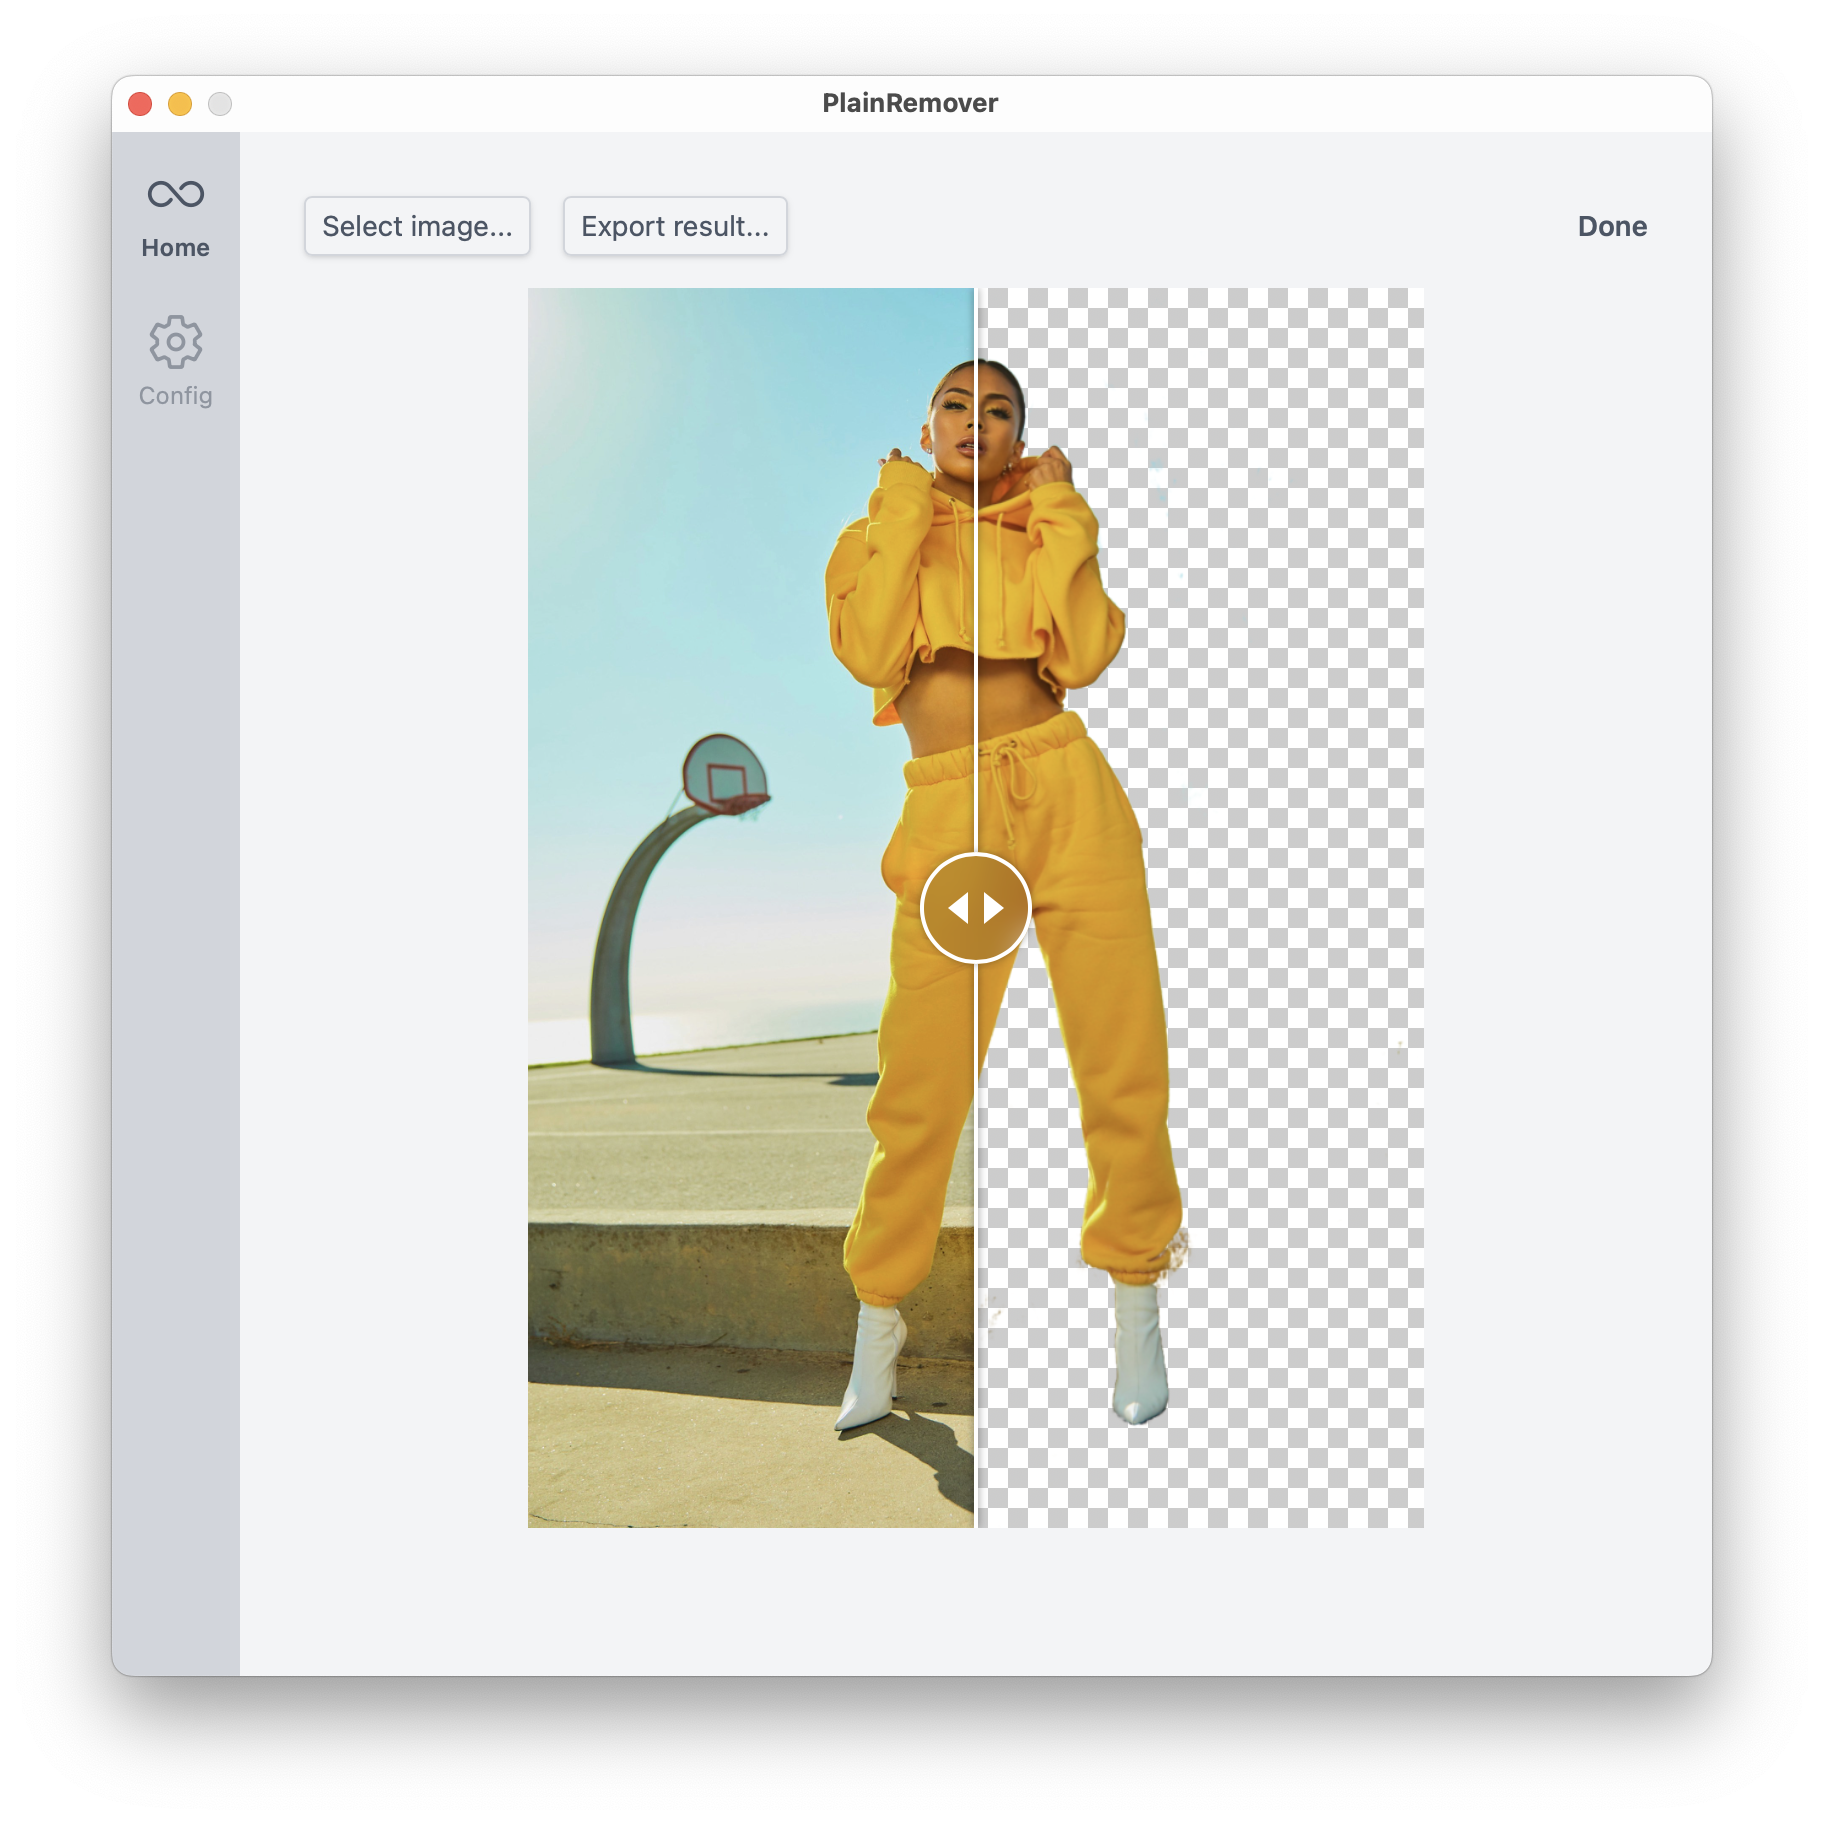
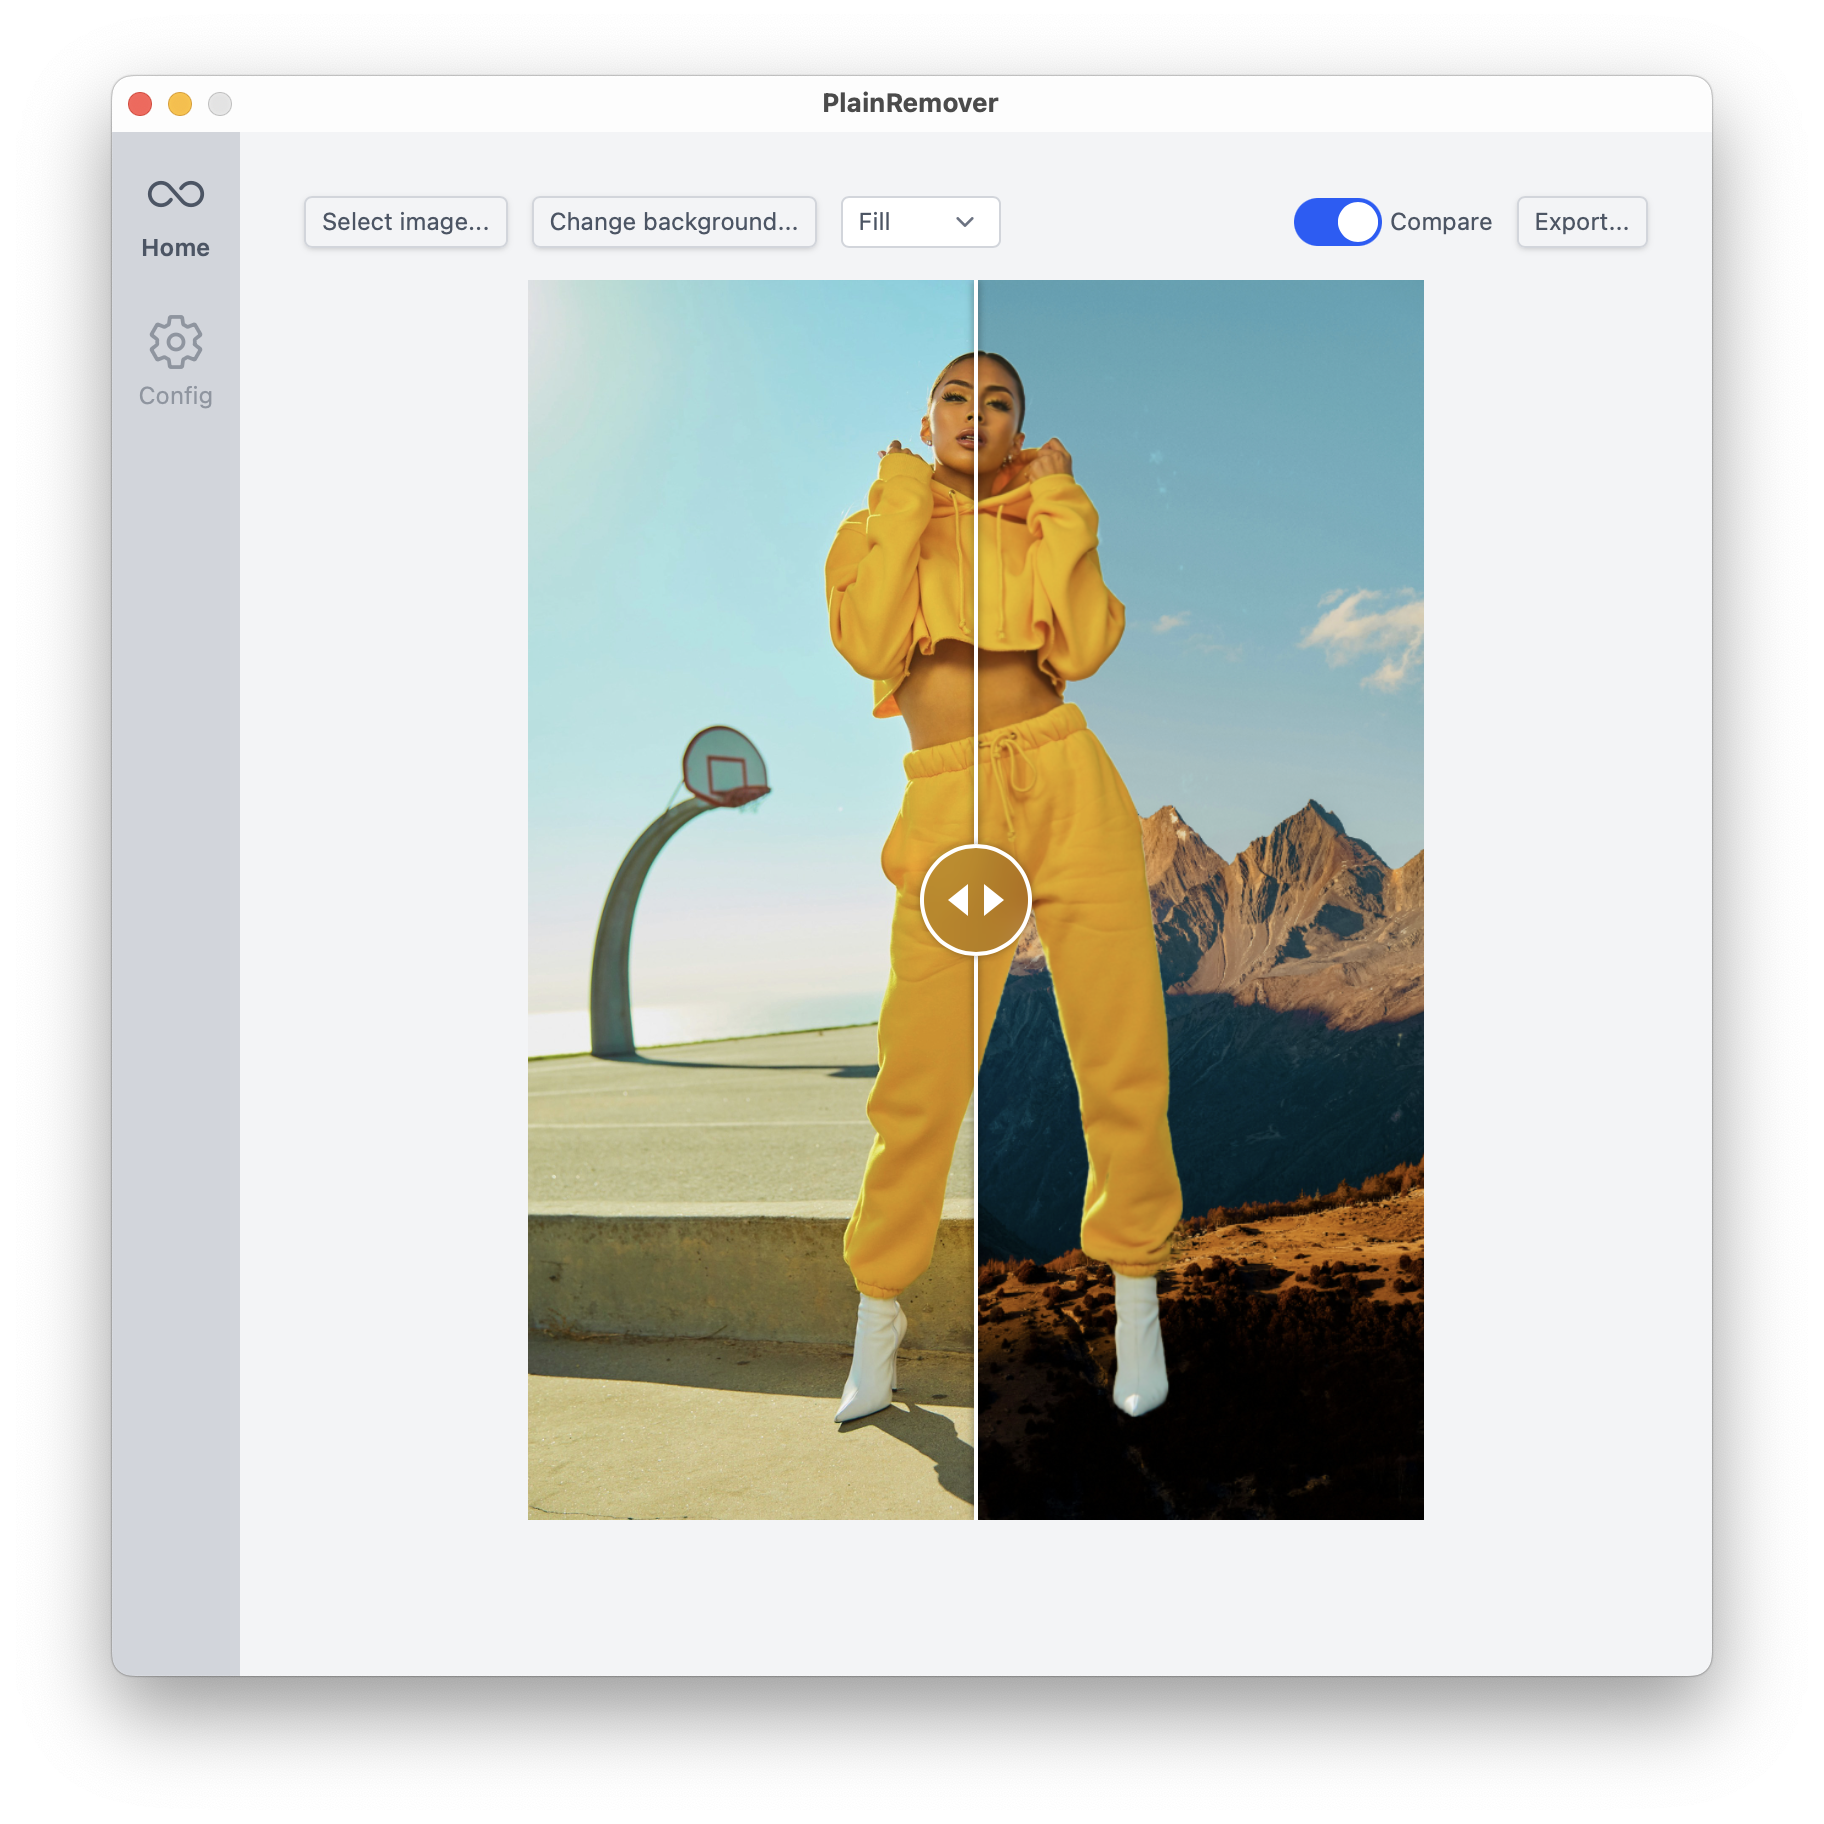
Support bg change

diff --git a/README.md b/README.md
@@ -9,8 +9,8 @@ PlainRemover
 - [x] **Custom ONNX Models**: Bring your own models to fit your need.
 - [x] **User-Friendly Interface**: Easy-to-use UI for non-technical users.
 - [x] **Cross-Platform Support**: Works on Windows, macOS, and Linux.
+- [x] **Custom Background Replacement**: Replace the removed background with a solid color or another image.
 - [ ] **Batch Processing**: Process multiple images at once.
-- [ ] **Custom Background Replacement**: Replace the removed background with a solid color or another image.
 
 ## Demo
 
